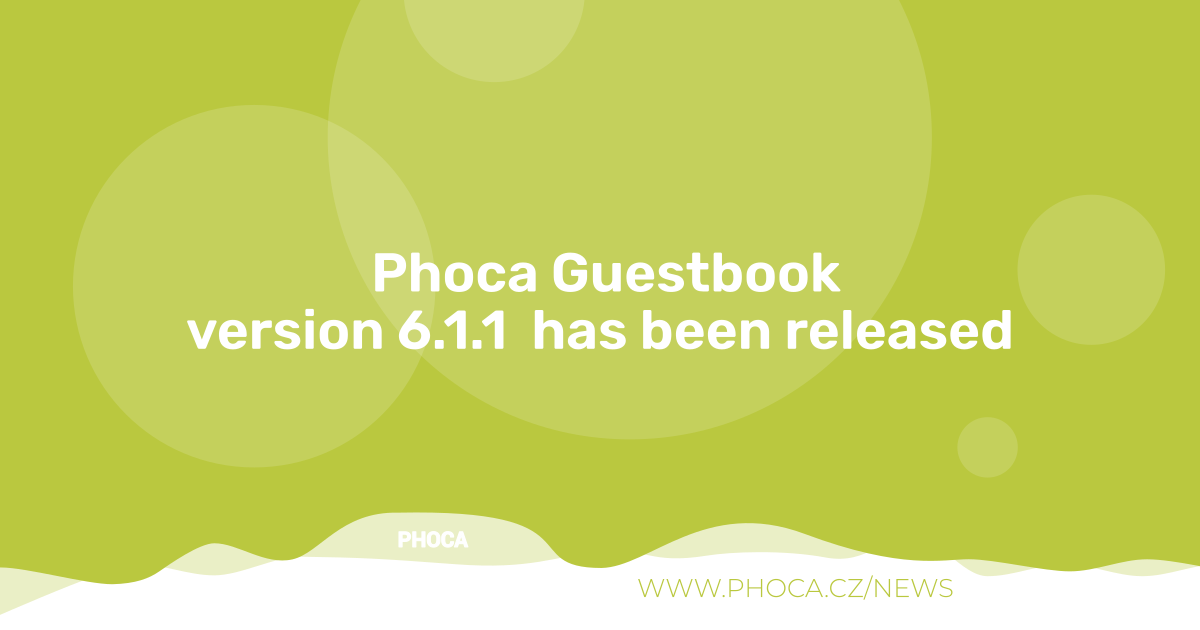
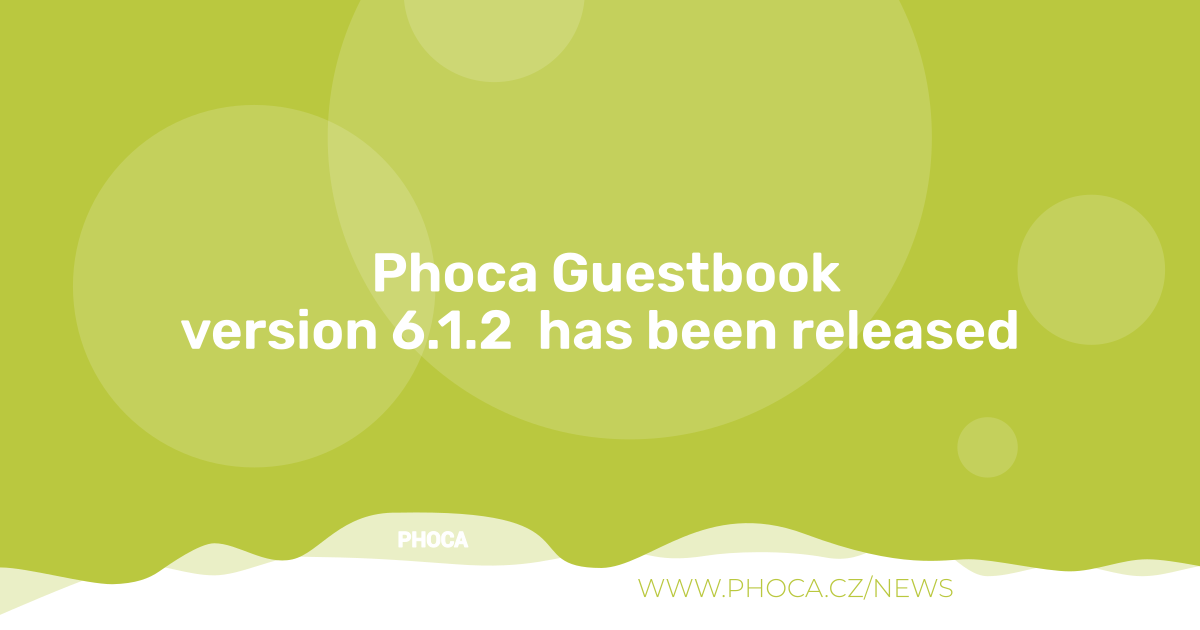
6.1.2

Changed region(s): [[0.1542, 0.4825, 0.8633, 0.573]]

diff --git a/site/router.php b/site/router.php
@@ -24,13 +24,13 @@ use Joomla\CMS\Factory;
 use Joomla\CMS\Menu\AbstractMenu;
 use Joomla\Database\DatabaseInterface;
 use Joomla\Database\ParameterType;
-
+use Joomla\CMS\Categories\Categories;
 
 class PhocaguestbookRouter extends RouterView
 {
 
 	protected $noIDs = false;
-	//private $categoryFactory;
+	private $categoryFactory;
 	private $categoryCache = [];
 	private $db;
 
@@ -182,6 +182,11 @@ class PhocaguestbookRouter extends RouterView
 		return (int) $segment;
 	}
 
+
+    private function getCategories(array $options = []): CategoryInterface
+	{
+		return Categories::getInstance('Phocaguestbook', $options);
+	}
 
 	/*private function getCategories(array $options = []): CategoryInterface
 	{

diff --git a/README.MD b/README.MD
@@ -70,7 +70,7 @@ If you need additional information beyond this GitHub repository, further docume
 ### Version (Joomla! 5.x - no longer supported)
 5.0.0
 ### Version (Joomla! 6.x)
-6.1.1
+6.1.2
 
 ### License
 
